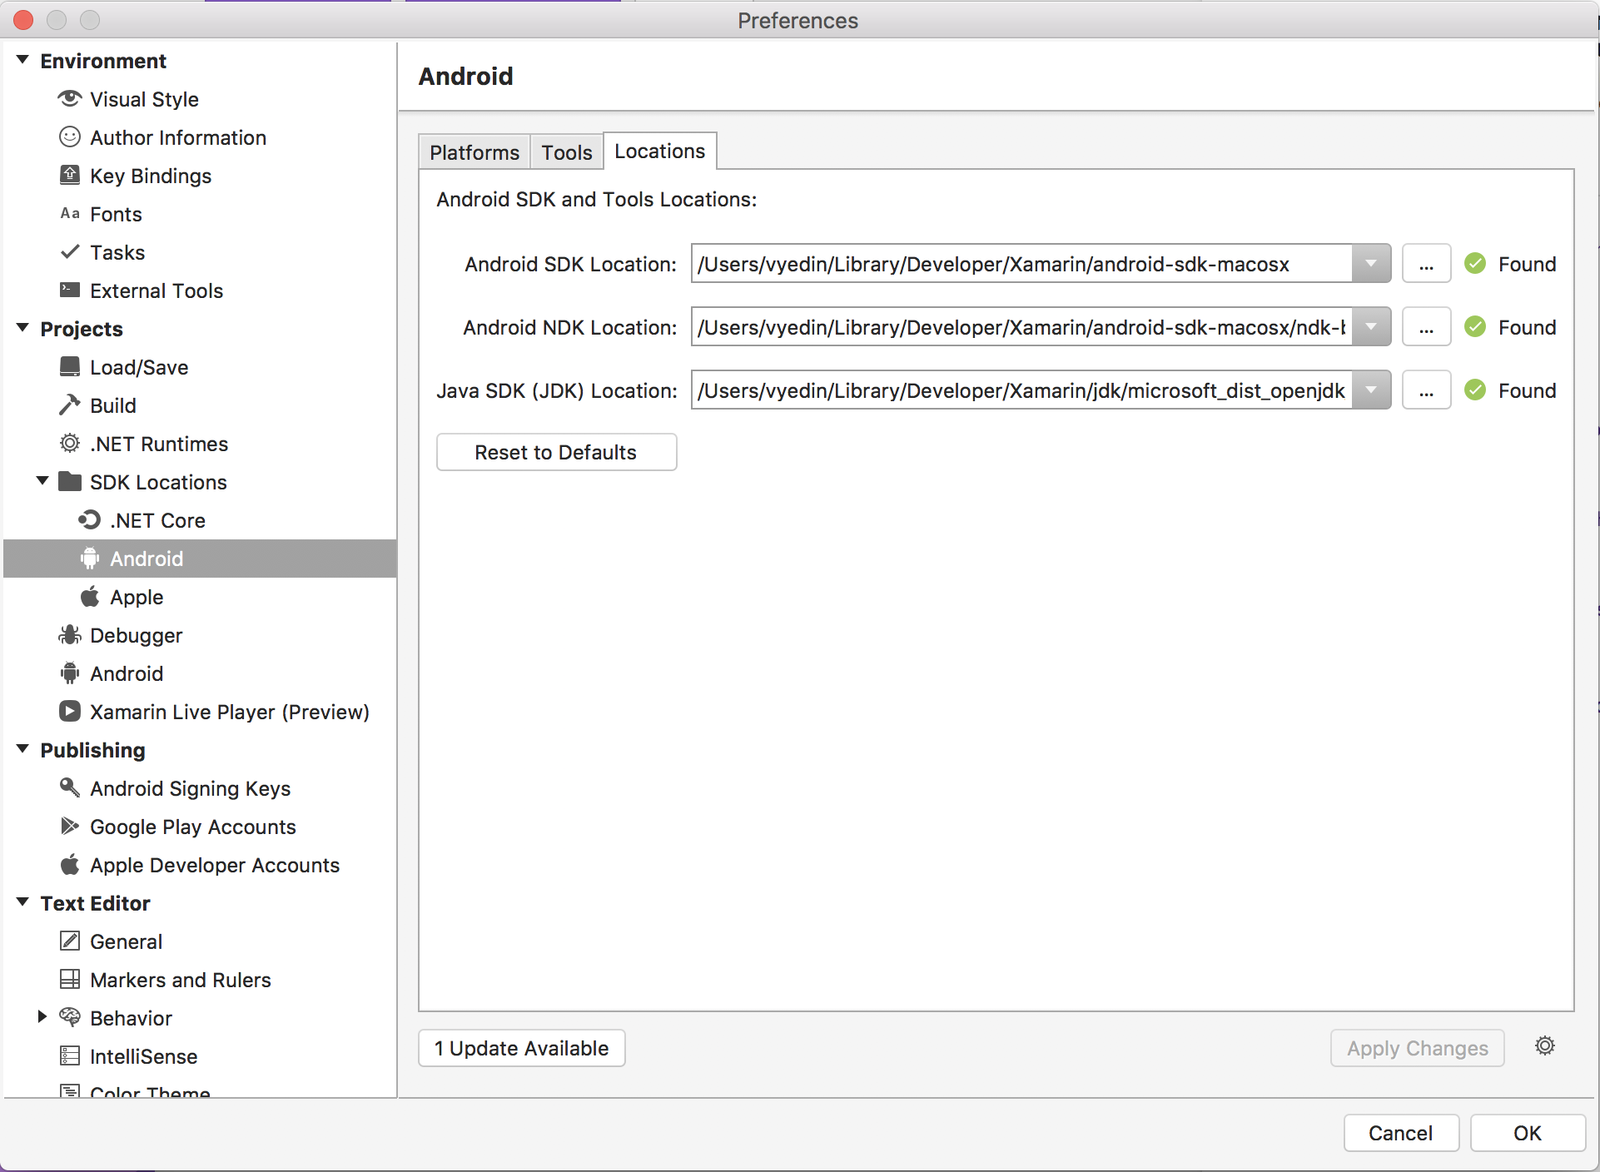
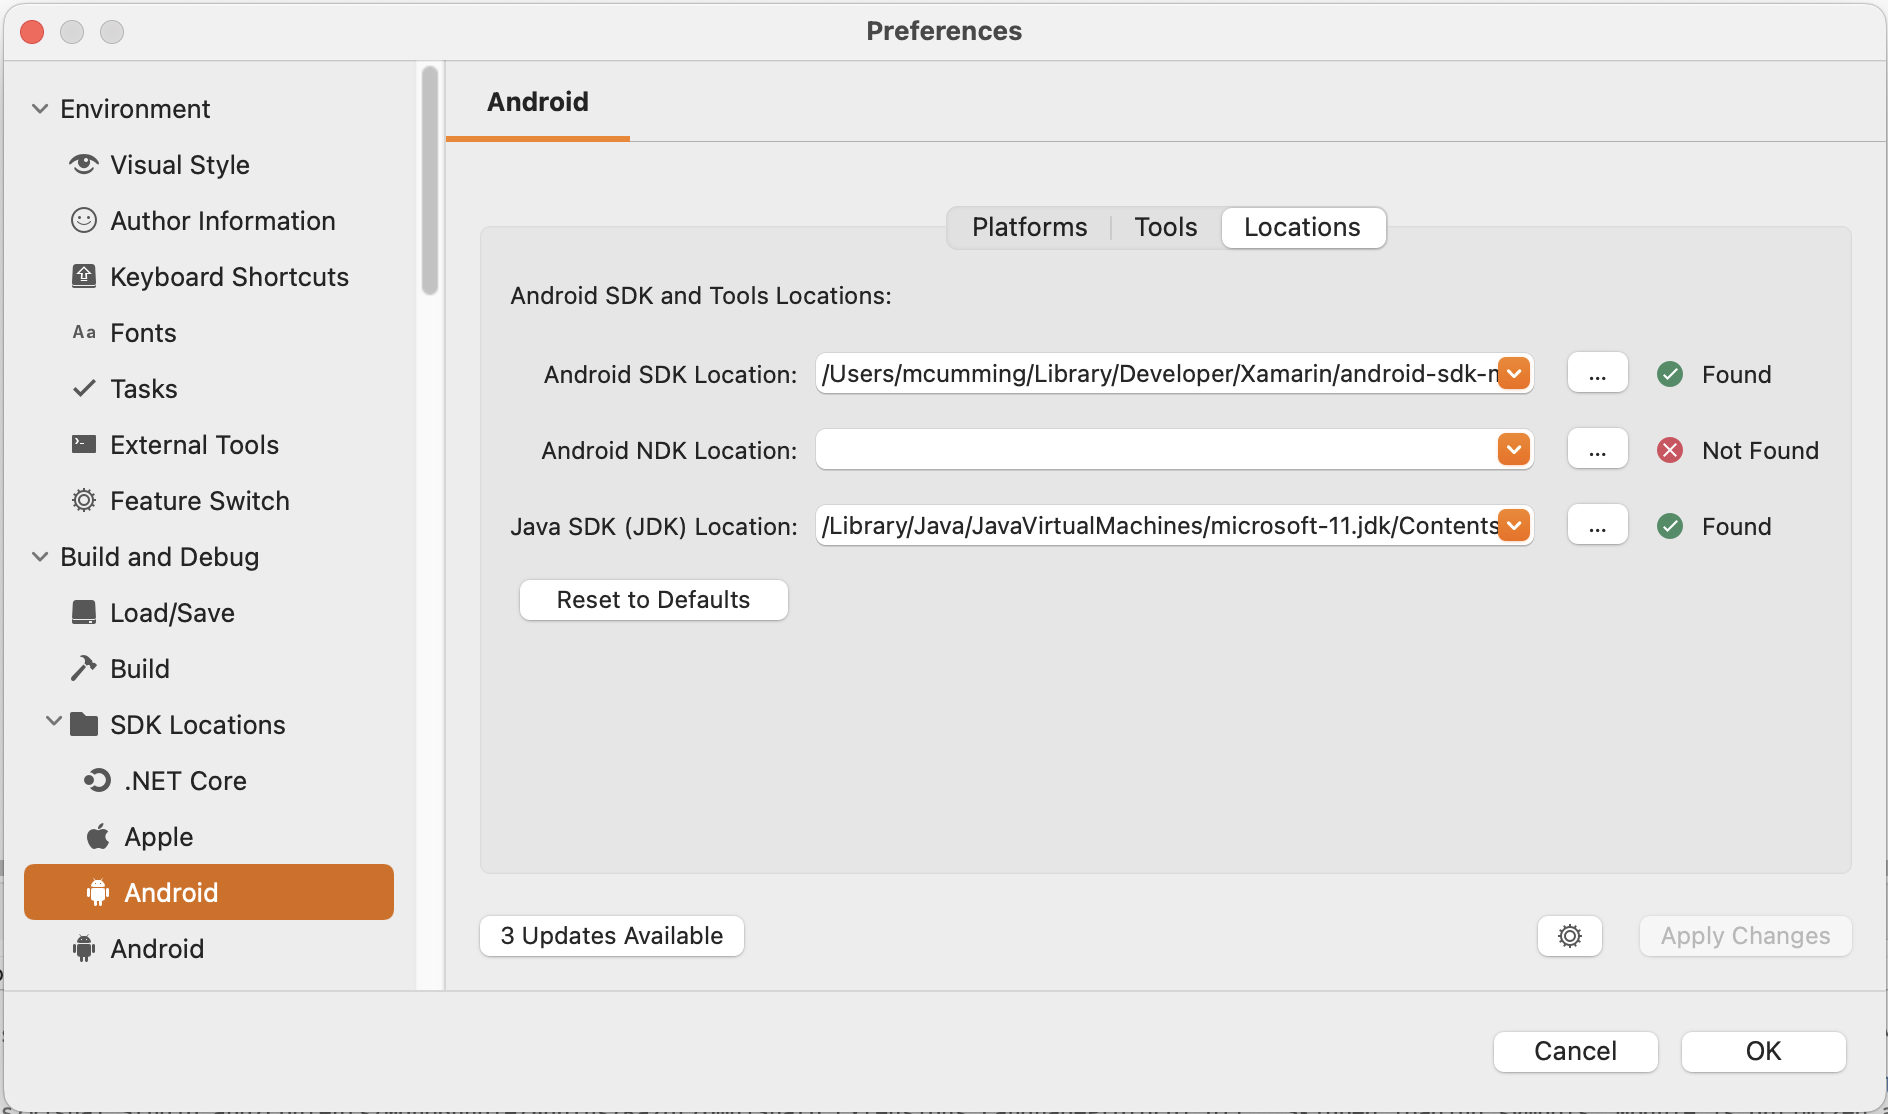
Update OpenJDK documentation (#2451)
* Update OpenJDK documentation

* Apply Acrolinx suggestions

diff --git a/docs/android/get-started/installation/openjdk.md b/docs/android/get-started/installation/openjdk.md
@@ -1,6 +1,6 @@
 ---
-title: "Microsoft's Mobile OpenJDK Distribution"
-description: "A step-by-step guide to configuring and troubleshooting Microsoft's distribution of OpenJDK for Mobile Development."
+title: "OpenJDK binaries for Xamarin"
+description: "A step-by-step guide to configuring and troubleshooting the VS installed OpenJDK binaries for Mobile Development."
 ms.prod: xamarin
 ms.assetid: B5F8503D-F4D1-44CB-8B29-187D1E20C979
 ms.technology: xamarin-android
@@ -9,13 +9,15 @@ ms.author: dabritch
 ms.date: 07/22/2018
 ---
 
-# Microsoft's Mobile OpenJDK Distribution
+# OpenJDK binaries for Xamarin
 
-_This guide describes the steps for switching to an internal distribution of OpenJDK. This distribution is intended for mobile development._
+_This guide describes the steps for switching to a supported distribution of OpenJDK._
 
 ## Overview
 
 Beginning with Visual Studio 15.9 and Visual Studio for Mac 7.7, Visual Studio Tools for Xamarin has moved from Oracle’s JDK to a **lightweight version of the OpenJDK that is intended solely for Android development**. This is a required migration as Oracle is ending support for commercial distribution of JDK 8 in 2019, and JDK 8 is a required dependency for all Android development.
+
+Beginning with Visual Studio 17.0 and Visual Studio for Mac 17.0, the Mobile Development workload has moved from OpenJDK 8 to OpenJDK 11. This is a required migration as the Android SDK is moving to JDK 11.
 
 The benefits of this move are:
 
@@ -23,17 +25,21 @@ The benefits of this move are:
 
 - Downloading Oracle's JDK 9 or greater won’t affect the development experience.
 
-- Reduced download size and footprint.
-
 - No more issues with 3rd party servers and installers.
 
-If you’d like to move to the improved experience sooner, builds of the Microsoft Mobile OpenJDK distribution are available for you to test on both Windows and Mac. The setup process is described below, and you can revert back to the Oracle JDK at any time.
+If you’d like to move to the improved experience sooner, builds of the Microsoft Build of OpenJDK are available for you to test on both Windows and Mac at https://aka.ms/msopenjdk.
+
+### Android Designer
+The Android Designer, a visual designer for Android XML layout files, isn't compatible with the OpenJDK 11. It therefore uses a different distribution of the OpenJDK 8 in order to provide its functionality. The distribution in use is the Adoptium (https://adoptium.net) Temurin Open JDK 8. The JDK 8 is installed in the following locations:
+
+- **Mac** &ndash; **$HOME/Library/Java/JavaVirtualMachines/temurin-8.jdk**
+- **Windows** &ndash; **C:\\Program Files\\Eclipse Foundation\\jdk-8.0.302.8-hotspot**
 
 ## Download
 
-The mobile OpenJDK distribution is automatically installed for you if you select the Android SDK packages in the Visual Studio installer on Windows.
+The Microsoft Build of OpenJDK is automatically installed for you if you select the Android SDK packages in the Visual Studio installer on Windows.
 
-On Mac, the mobile OpenJDK will be installed for you as part of the Android workload for new installs. For existing Visual Studio for Mac users, you will be prompted to install it as part of your update. The IDE will prompt you to move to the new JDK, and will switch to using it at the next restart.
+On Mac, the Microsoft Build of OpenJDK will be installed for you as part of the Android workload for new installs. For existing Visual Studio for Mac users, you will be prompted to install it as part of your update. The IDE will prompt you to move to the new JDK, and will switch to using it at the next restart.
 
 ## Troubleshooting
 
@@ -41,25 +47,23 @@ If you encounter issues with the setup on Mac or Windows, you can take the follo
 
 Check if OpenJDK is installed on the machine in the correct location:
 
-- **Mac** &ndash; **$HOME/Library/Developer/Xamarin/jdk/microsoft_dist_openjdk_1.8.0.x**
-- **Windows** &ndash; **C:\\Program Files\\Android\\jdk\\microsoft_dist_openjdk_1.8.0.x**
+- **Mac** &ndash; **$HOME/Library/Java/JavaVirtualMachines/microsoft-11.jdk**
+- **Windows** &ndash; **C:\\Program Files\\Microsoft\\jdk\\jdk-11.0.XX.YY-hotspot**
 
-Point the IDE to the new JDK:
+### Point the IDE to the new JDK:
 
-- **Mac** &ndash; Click **Tools > SDK Manager > Locations** and change the **Java SDK (JDK) Location** to the full path of the OpenJDK installation. In the following example, this path is set to  **$HOME/Library/Developer/Xamarin/jdk/microsoft_dist_openjdk_1.8.0.9** but your version may be newer.
+- **Mac** &ndash; select **Tools > SDK Manager > Locations** and change the **Java SDK (JDK) Location** to the full path of the OpenJDK installation. In the following example, this path is set to  **$HOME/Library/Java/JavaVirtualMachines/microsoft-11.jdk/Contents/Home**.
 
-![Setting the JDK path for the Microsoft Mobile OpenJDK distribution on the Mac](openjdk-images/vsm.png)
+![Setting the JDK path for the Microsoft Build of OpenJDK on the Mac](openjdk-images/vsm.png)
 
-- **Windows** &ndash; Click **Tools > Options > Xamarin > Android Settings** and change the **Java Development Kit Location** to the full path of the OpenJDK installation. In the following example, this path is set to **C:\\Program Files\\Android\\jdk\\microsoft_dist_openjdk_1.8.0.9**, but your version may be newer:
+- **Windows** &ndash; select **Tools > Options > Xamarin > Android Settings** and change the **Java Development Kit Location** to the full path of the OpenJDK installation. In the following example, this path is set to **C:\\Program Files\\Microsoft\\jdk\\jdk-11.0.12.7-hotspot**, but your version may be newer:
 
-![Setting the JDK path for the Microsoft Mobile OpenJDK distribution on Windows](openjdk-images/vs.png)
+![Setting the JDK path for the Microsoft Build of OpenJDK on Windows](openjdk-images/vs.png)
 
 ## Known Issues
 
-### Package 'OpenJDKV1.RegKey,version=1.8.0.25,chip=x64' failed to install
-
-This may be an issue in some corporate environments. OpenJDK is already on the machine - follow the [troubleshooting steps above](#troubleshooting) to point your IDE to the correct location. You can follow the status of the issues [here](https://developercommunity.visualstudio.com/content/problem/382549/packageidopenjdkv1regkeypackageactioninstallreturn.html).
+No known issues.
 
 ## Summary
 
-In this article, you learned how to configure your IDE to use Microsoft's Mobile OpenJDK distribution, and how to troubleshoot should you encounter issues.
+In this article, you learned how to configure your IDE to use the Microsoft Build of OpenJDK, and how to troubleshoot should you encounter issues.
